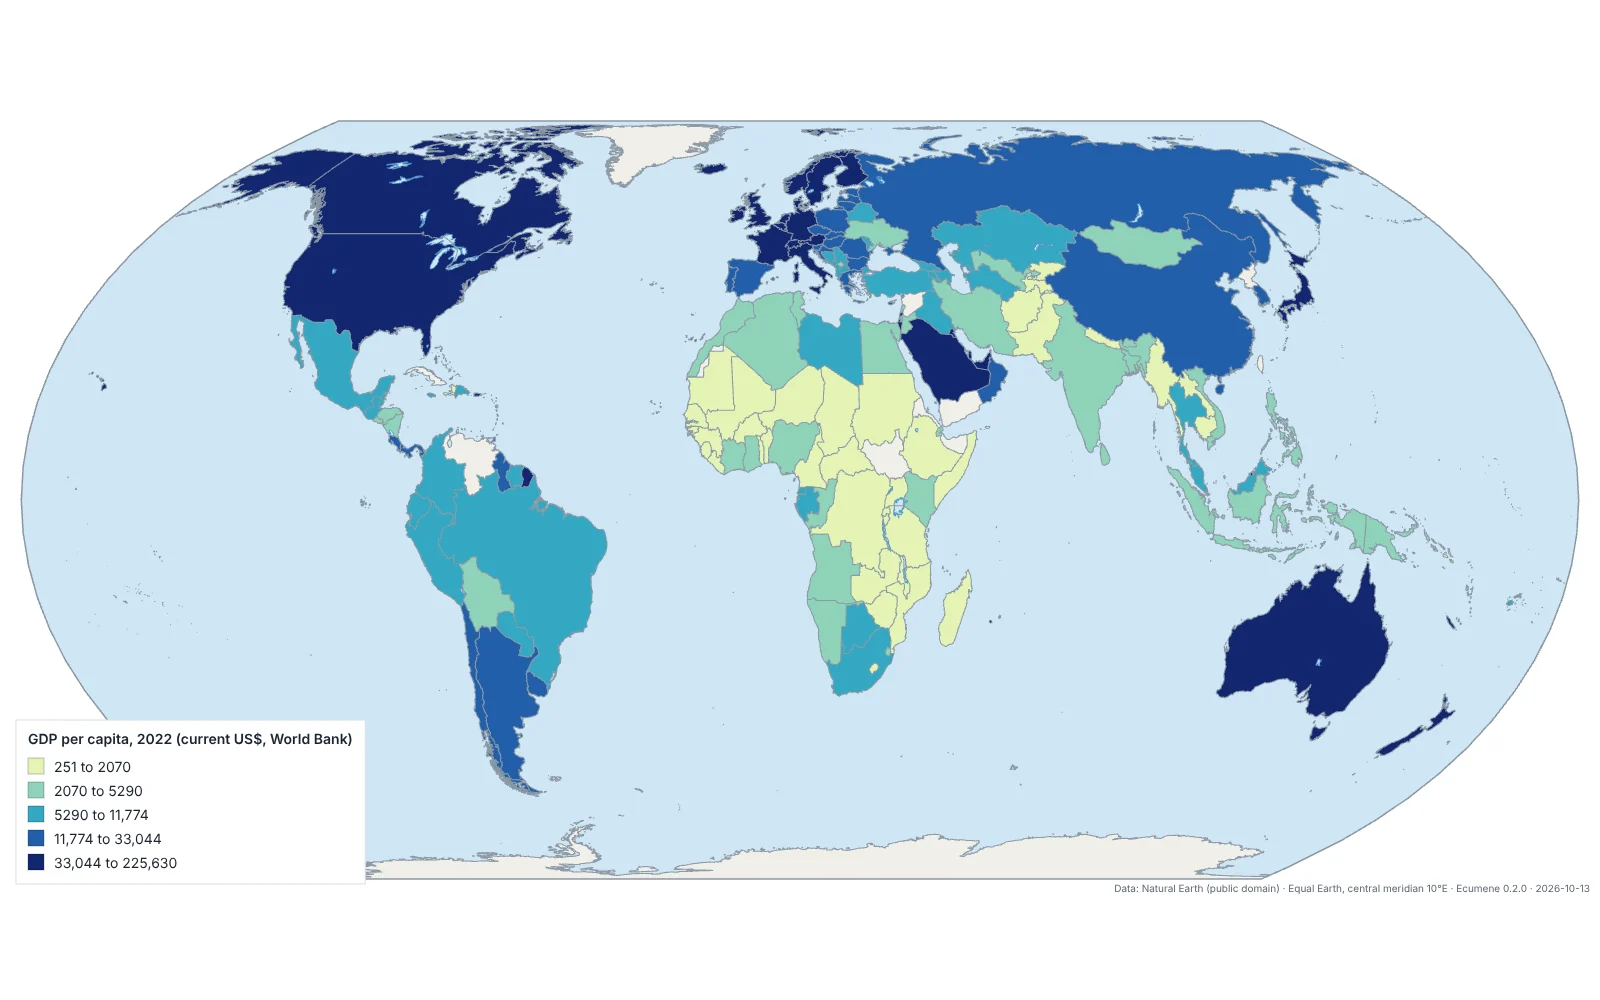
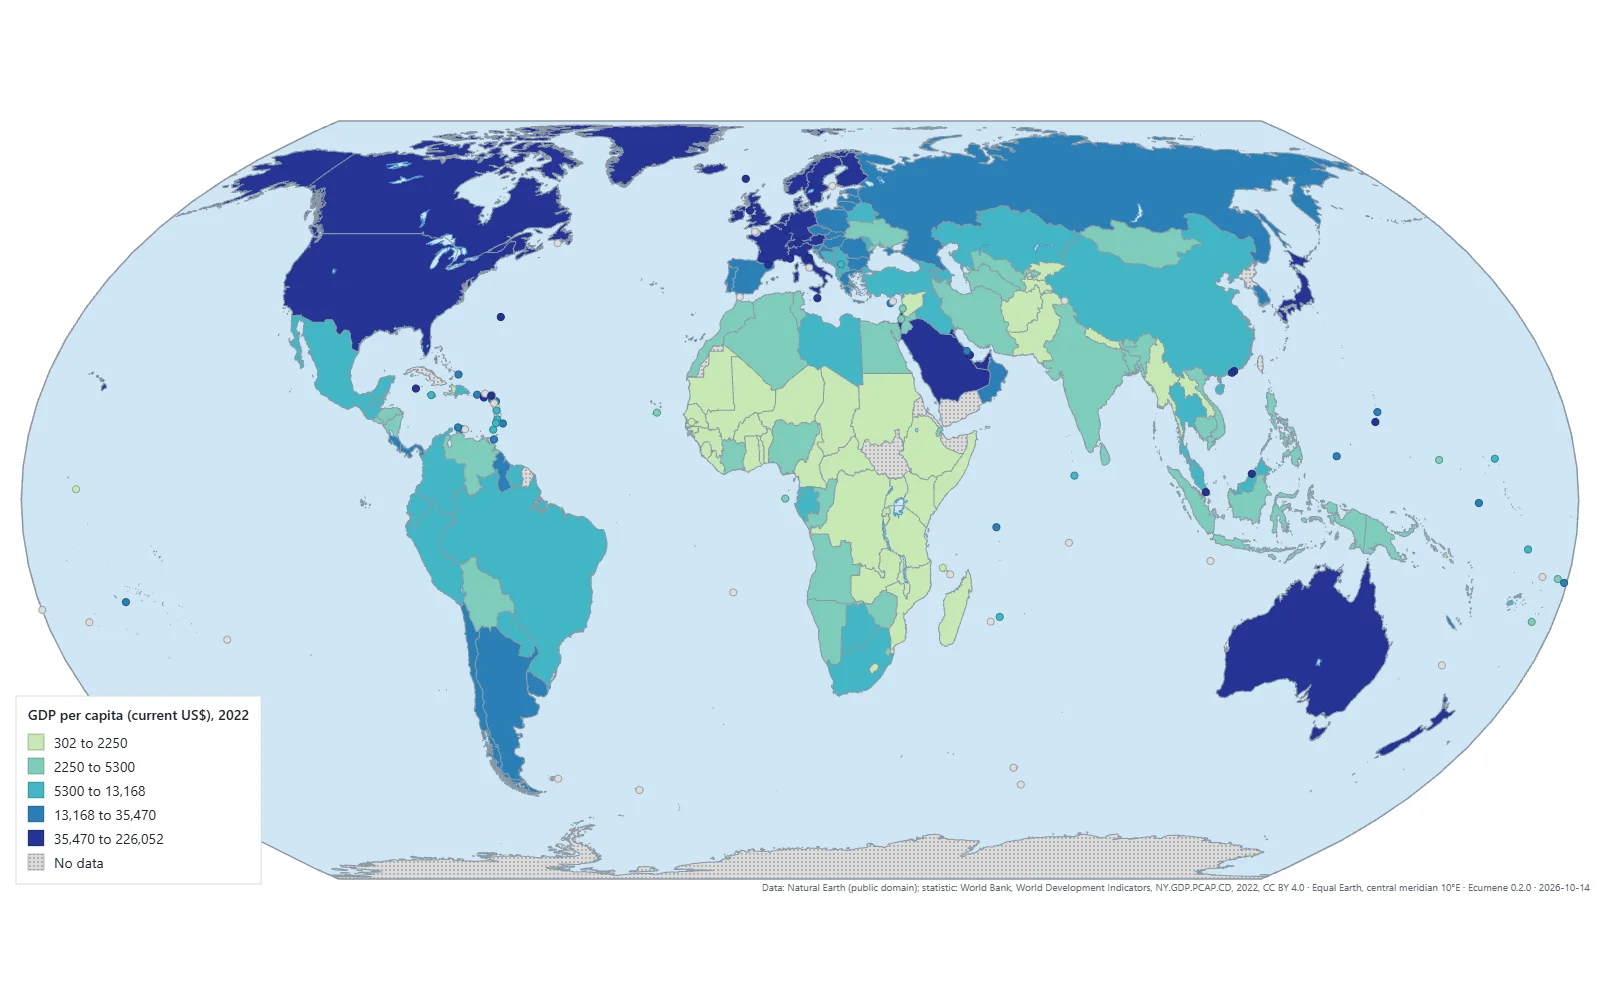
GDP example: fetch the World Bank series live and keep it with its date
The home-page GDP example now comes from the statistic feature: make_examples.js fetches NY.GDP.PCAP.CD for 2022 from the World Bank's API, and the example file saves the values with the fetch date. The hand-kept CSV (which differed from the current World Bank series for 60 of 161 countries checked) is removed. Sources table, home page and README updated; HANDOFF notes the electoral table is not yet checked against the Census table.

diff --git a/src/home/index.html b/src/home/index.html
@@ -118,7 +118,7 @@ footer p{margin:0 0 .6rem;max-width:44rem}
 <p class="intro">Open any of these in the editor and change it into your own map.</p>
 <div class="plates">
 <a href="app/?example=eu"><img src="examples/eu.webp" alt="Orthographic globe centred on Europe with the 27 European Union members in green" width="800" height="500" loading="lazy"><p class="ct">The European Union</p><p class="cd">Orthographic, in the Wikipedia locator style.</p></a>
-<a href="app/?example=gdp"><img src="examples/gdp.webp" alt="World map in Equal Earth projection, countries shaded by GDP per capita in five classes" width="800" height="500" loading="lazy"><p class="ct">GDP per capita, 2022</p><p class="cd">Equal Earth. World Bank data, five classes by quantile.</p></a>
+<a href="app/?example=gdp"><img src="examples/gdp.webp" alt="World map in Equal Earth projection, countries shaded by GDP per capita in five classes" width="800" height="500" loading="lazy"><p class="ct">GDP per capita, 2022</p><p class="cd">Equal Earth. World Bank data fetched on 14 Oct 2026, five classes by quantile; countries without a value are marked.</p></a>
 <a href="app/?example=althist"><img src="examples/althist.webp" alt="Globe of the eastern Mediterranean showing a fictional 1453, with empires drawn as regions and campaigns as arrows" width="800" height="500" loading="lazy"><p class="ct">A restored Byzantium, 1453</p><p class="cd">A fictional scenario, drawn with freehand regions and arrows.</p></a>
 <a href="app/?example=uk"><img src="examples/uk.webp" alt="Lambert conformal conic map of the United Kingdom with England, Scotland, Wales and Northern Ireland outlined" width="800" height="500" loading="lazy"><p class="ct">The countries of the United Kingdom</p><p class="cd">Lambert conformal conic. Exact outlines from Natural Earth subdivisions.</p></a>
 </div>
@@ -140,7 +140,7 @@ footer p{margin:0 0 .6rem;max-width:44rem}
 <tr><td>Countries</td><td>Natural Earth 1:10m, version 4.1</td><td>Public domain</td></tr>
 <tr><td>States and provinces</td><td>Natural Earth 1:10m admin-1</td><td>Public domain</td></tr>
 <tr><td>Lakes and rivers</td><td>Natural Earth 1:10m physical</td><td>Public domain</td></tr>
-<tr><td>Example statistics</td><td>World Bank, via datasets on GitHub</td><td>CC BY 4.0</td></tr>
+<tr><td>Example statistics</td><td>World Bank, World Development Indicators (live, saved in the map)</td><td>CC BY 4.0</td></tr>
 </tbody>
 </table>
 </div>

diff --git a/scripts/make_examples.js b/scripts/make_examples.js
@@ -20,16 +20,19 @@ const EXAMPLES = {
     await view(page, [-14, -50], 1);
     return { mode: 'paint', export: { proj: 'ortho', area: 'world', width: 550 } };
   },
-  // World Bank GDP per capita, 2022, five quantile classes.
+  // World Bank GDP per capita, 2022, five quantile classes. The numbers are fetched from the World Bank's API while
+  // the example is made (this needs the network) and saved in the example with the year and the date fetched, so
+  // the example never changes by itself; run this script again to refresh it. The legend title and credit are the
+  // editor's own.
   async gdp(page) {
-    const rows = fs.readFileSync(R('site/data/gdp-per-capita-2022.csv'), 'utf8').split('\n').filter((l) => l && !l.startsWith('#')).join('\n');
     await mode(page, 'data');
-    await page.fill('#dd', rows);
+    await page.selectOption('#dst', 'wb:NY.GDP.PCAP.CD');
+    await page.waitForFunction(() => document.querySelector('#dyr option[value="2022"]') && !document.getElementById('dyr').disabled, null, { timeout: 60000 });
+    await page.selectOption('#dyr', '2022');
     await page.selectOption('#dpal', 'Yellow-Green-Blue');
     await page.selectOption('#dn', '5');
     await page.selectOption('#dm', 'quantile');
     await page.click('#dgo');
-    await setLegend(page, { t: 'GDP per capita, 2022 (current US$, World Bank)', p: 'bl' });
     await view(page, [-10, 0], 1);
     return { mode: 'data', export: { proj: 'equalearth', area: 'world', width: 1600 } };
   },

diff --git a/HANDOFF.md b/HANDOFF.md
@@ -59,7 +59,7 @@ Conventions: modules share state only through `app`; UI panels re-render on even
 - Lakes in SVG export: every lake lies inside a country polygon in the countries layer (and inside subdivisions). Export cuts the lakes the map shows (always-water, plus major or all by the Lakes setting) out of each country path and painted subdivision (`scripts/lib/cut.js`, cached per setting), so the shapes stop at the shore; borders still come from the original topology. The clipper (`polygon-clipping`) is a separate `app/clip.js`, loaded on the first export. Cutting is planar in lon/lat: pieces get continuous longitudes (rings round a pole are closed through it), everything is snapped to 1e-5° (unsnapped, Brazil fails), long edges get points along their great circle first, and points the clipper drops along straight lon/lat runs (Sudan's 22°N border) are put back. A piece that cannot be cut is kept whole and named in `<desc>`; `tests/unit/cut.test.mjs` cuts every country and subdivision file at every setting so that does not happen. A whole-world map at Lakes = All cuts in about 1.5 s on a desktop. Globe PNGs are unaffected (they come from the GL render, where lakes are drawn over the land).
 - Subdivisions: Natural Earth 10m admin-1, one TopoJSON per country in `admin1/`, fetched on demand. Each unit has `id` (its position in Natural Earth's list for that country, which exact outlines save) and `c` (`adm1_code`, unique, which painted units save). Units of the overseas parts move out of France and the Netherlands into their own entries (the Caribbean Netherlands gets Bonaire, Saba and Sint Eustatius; the French regions are single units and paint whole); the parent's other units keep their ids, so ids can have gaps. Where no unit covers part of a country (the north of Åland's main island, Argentina's side of the Southern Patagonian Ice Field, small areas of India, China, Palestine, Croatia, the US, the Philippines, Bhutan and Antarctica), the build adds one more unit, "Rest of <country>" with code `<file>+0` (for example `ALD+0`): the country minus its units with `polygon-clipping` (also used by SVG export, see above), dropping slivers under 10 km² or under 1 km wide. Countries across 180° get continuous longitudes first, and a piece the clipper cannot handle is redone in 1° tiles, quartered down to 1/8° (only one 1/8° tile of Chilean fjord is skipped). The Baikonur and Guantánamo Bay units belong to Kazakhstan and Cuba, listed after their own units so ids do not move.
 - Exact outlines (`t:'shape'`) are saved by reference (`{k:'c',names}` or `{k:'a1',c,ids}`), never by coordinates, and rebuilt with `topojson.merge`.
-- Statistics (#13): the Data panel's Statistic menu. World Bank indicators (World Development Indicators, CC BY 4.0, 12 listed in `scripts/sources/stat-worldbank.json`, each with its own code, title and who collected it; all are CC BY 4.0 in the World Bank's series metadata) are fetched live from `api.worldbank.org` in the browser when one is chosen, one request for the last 15 years. This is the only request the editor makes to another site, and only on that choice; the panel says so. Nothing is bundled and the build needs no update. The map saves what it used, `st: {k:'wb', c: code, y: year or 'latest', t: date fetched, v: {ISO3: value}, ys?: {ISO3: year}}` (values rounded to 7 significant digits), so reopening or sharing a map code never changes its numbers and never touches the network; "Fetch again" is the only refresh. Year menu: the default is the latest year where at least 90% of the best year's countries have a value; "Most recent for each country" uses each country's latest value and the legend title and credit say "most recent available, 2021–2024". Matching uses ISO alpha-3 codes: `src/iso.js` (generated by `scripts/build_iso.js` from Natural Earth's admin-0 table and committed) maps each code to the map country's id, which is its ISO numeric code, plus the overseas parts split from France and the Netherlands; Kosovo (World Bank code XKX) is matched by name; Ashmore and Cartier Is. shares Australia's numeric id and takes no code. A country without a value is painted `NO_DATA_PAINT` (grey with fine dots) with a "No data" legend entry unless "Mark countries with no data" is off (saved as `ds.nd`). The World Bank's figure for France includes its overseas departments, so French Guiana and the others show no data while France's value still counts them; Taiwan, Western Sahara and some others have no World Bank data. A statistic colors the whole map: what was painted before goes (one undo step; undo restores the statistic and legend title). Pasting rows, or Clear all colors, drops the statistic and its credit. Exports credit it ("World Bank, World Development Indicators, NY.GDP.PCAP.CD, 2023, CC BY 4.0", plus the date fetched and the collecting organisation in the SVG `<desc>`). US electoral votes are bundled in `stats.js` (House seats from the 2020 Census apportionment plus two senators, DC 3; valid for the 2024, 2028 and 2032 elections) and paint Natural Earth's US units; Maine and Nebraska's district votes are not shown. Democracy indices are left out for licence reasons (V-Dem is CC BY-SA, the EIU Democracy Index and Freedom House are not openly licensed). The browser tests answer the World Bank from a fixture so CI needs no network; the live API was checked by hand on 14 Oct 2026.
+- Statistics (#13): the Data panel's Statistic menu. World Bank indicators (World Development Indicators, CC BY 4.0, 12 listed in `scripts/sources/stat-worldbank.json`, each with its own code, title and who collected it; all are CC BY 4.0 in the World Bank's series metadata) are fetched live from `api.worldbank.org` in the browser when one is chosen, one request for the last 15 years. This is the only request the editor makes to another site, and only on that choice; the panel says so. Nothing is bundled and the build needs no update. The map saves what it used, `st: {k:'wb', c: code, y: year or 'latest', t: date fetched, v: {ISO3: value}, ys?: {ISO3: year}}` (values rounded to 7 significant digits), so reopening or sharing a map code never changes its numbers and never touches the network; "Fetch again" is the only refresh. Year menu: the default is the latest year where at least 90% of the best year's countries have a value; "Most recent for each country" uses each country's latest value and the legend title and credit say "most recent available, 2021–2024". Matching uses ISO alpha-3 codes: `src/iso.js` (generated by `scripts/build_iso.js` from Natural Earth's admin-0 table and committed) maps each code to the map country's id, which is its ISO numeric code, plus the overseas parts split from France and the Netherlands; Kosovo (World Bank code XKX) is matched by name; Ashmore and Cartier Is. shares Australia's numeric id and takes no code. A country without a value is painted `NO_DATA_PAINT` (grey with fine dots) with a "No data" legend entry unless "Mark countries with no data" is off (saved as `ds.nd`). The World Bank's figure for France includes its overseas departments, so French Guiana and the others show no data while France's value still counts them; Taiwan, Western Sahara and some others have no World Bank data. A statistic colors the whole map: what was painted before goes (one undo step; undo restores the statistic and legend title). Pasting rows, or Clear all colors, drops the statistic and its credit. Exports credit it ("World Bank, World Development Indicators, NY.GDP.PCAP.CD, 2023, CC BY 4.0", plus the date fetched and the collecting organisation in the SVG `<desc>`). US electoral votes are bundled in `stats.js` (House seats from the 2020 Census apportionment plus two senators, DC 3; valid for the 2024, 2028 and 2032 elections) and paint Natural Earth's US units; Maine and Nebraska's district votes are not shown. Democracy indices are left out for licence reasons (V-Dem is CC BY-SA, the EIU Democracy Index and Freedom House are not openly licensed). The browser tests answer the World Bank from a fixture so CI needs no network; the live API was checked by hand on 14 Oct 2026. The home page's GDP example is made with this feature: `scripts/make_examples.js gdp` fetches the 2022 series live, and the example file keeps the values with the fetch date (14 Oct 2026); it replaced a hand-kept CSV that no longer matched the World Bank's current series. The electoral-vote seat table was typed from memory and is checked only by its totals (435 seats, 538 votes) and five states; verify it against the Census table before relying on it.
 
 - Other subdivision layers (#37): each comes from an entry in `scripts/sources/` (publisher, edition, licence, exact credit, download URL and SHA-256, which fields hold code, name and groupings). `scripts/fetch_sources.js` downloads the raw file from the mirror release `data-sources` (checksum-named assets, never replaced; `--origin` fetches from the publisher, records the new checksum and stages the file in `data/src/mirror/` for `gh release upload data-sources`). `scripts/build_layers.js` fits every unit to the Natural Earth country outline (units wholly inside are kept as published; others are cut back to the coast, dropping pieces under 0.5 km²), orients polygons for d3 by area (ArcGIS winds the other way), and writes `data/layers/<id>/<file>.json` plus `data/layers/index.json` (per country: id, menu name, unit word, edition, file, count, groupings, credit). The editor reads the index at start; a country with several layers shows "Layer for <country>" in the paint panel and in the outline picker. Codes of a layer's units carry its id (`gb-wpc-2024:E14001063`), so saved maps (`u`) need no new field and Natural Earth codes are unchanged; exact outlines save the layer as `ref.y`. A country is painted with one layer at a time: its layer is that of its paint, else the one chosen; switching clears the other layer's paint after asking, as one undo step. Exports credit each layer used (title, edition, URL, credit in `<desc>`; the short credit on the source note). The README sources table is generated from `scripts/sources` (`node scripts/fetch_sources.js --readme`) and a test checks it. A source can have several `parts` (the UK county layers join Great Britain from OS Boundary-Line and Northern Ireland from OSNI); a part's download can `extract` one Shapefile layer from a zip archive (OS ships Boundary-Line as one 737 MB archive: `--origin` keeps it in `data/src/cache/`, converts the layer with mapshaper and stores gzipped GeoJSON, so the mirror holds 18 MB). Fields can merge pieces by name (`dissolve`: OS splits Carnarvonshire into 8, Tailte Éireann a constituency into dozens), tidy names (`case: "title"` for names in capitals, `strip` a regex such as " Council$" or a seat count), use `"@slug"` codes for name-only data, and take groupings from a field, from the code's first letter, or from the Natural Earth admin-1 unit under the unit's centre (`"from": "ne-admin1"`). `simplify` passes mapshaper options (150 m for full-detail sources). The build stops if a unit loses its shape, and where one unit lies inside another in the source (Tailte Éireann's generalised Cork County covers Cork City) it cuts the smaller out of the larger and says so; any other overlap stops it. Layers (#10): UK Westminster constituencies 2024 (650), counties and unitary authorities December 2025 (218, ONS), ceremonial counties (97: England, Wales's preserved counties, Scotland's lieutenancy areas, Northern Ireland's six counties since its county boroughs are not in the open data), historic counties (94, 1888/1889 plus Northern Ireland's six); Ireland counties (26), local authority areas (31) and Dáil constituencies 2023 (43), all Tailte Éireann. Each file is 114-374 KB and covers 98.8-99.4% of its country on the map. Postcode areas are left out: no current open boundaries exist (see #10). A part can also `filter` features (`{field, in}` or `{field, notIn}`: the Census county file has the territories, which are their own countries on the map) and `lookup` field values (state FIPS codes to names), and a name can be a template of fields (`"{STATEFP} {CD119FP}"`) with `replace` rules ("Alaska 00" becomes "Alaska (at-large)"). US layers (#11, U.S. Census Bureau 2024 cartographic boundaries 1:5M, public domain): counties and equivalents of the 50 states and DC (3,144, grouped by state, 1,974 KB, so its source sets `maxKB` 2000), congressional districts of the 119th Congress (436 with DC's delegate), and Puerto Rico's 78 municipios (Natural Earth has none). Layer files are quantised to about 1e-4° whatever their extent (a fixed 1e5 steps across the US, nearly 360° wide because of the Aleutians, moved Alaska's fjord coasts off the land). In headless tests the US counties take 5-7 s to show because SwiftShader renders each frame slowly; on a real GPU they are ready in about 220 ms with 5 ms frames.
 

diff --git a/README.md b/README.md
@@ -48,7 +48,7 @@ The browser tests are slow on a software GPU (around 15 minutes); on a machine w
 - `src/js/`: the app as ES modules, bundled by esbuild (see `HANDOFF.md` for the module map)
 - `src/groups.js`: country groups, name aliases and data parsing (shared with the build scripts and tests)
 - `scripts/`: data builds (`build_tris.js`, `build_phys.js`, `build_admin1.js`, `build_layers.js`, helpers `lib/tri.js` and `lib/cut.js`, which the editor also uses), downloads (`fetch_data.js` for Natural Earth, `fetch_sources.js` for the layers listed in `scripts/sources/`), and `build.js`. See "Adding a data layer" in `HANDOFF.md`.
-- `src/home/`: the home page (template and the hero globe script); `site/examples/`: example maps (state JSON and thumbnails, made by `scripts/make_examples.js`); `site/data/`: data used by examples
+- `src/home/`: the home page (template and the hero globe script); `site/examples/`: example maps (state JSON and thumbnails, made by `scripts/make_examples.js`)
 - `tests/unit/`, `tests/e2e/`: tests; `tests/server.js` is a minimal static server
 
 ## Data and licences
@@ -72,7 +72,7 @@ The browser tests are slow on a software GPU (around 15 minutes); on a machine w
 | Electoral votes per US state (Data panel), 2024, 2028 and 2032 elections | [U.S. Census Bureau, 2020 Census apportionment of the U.S. House of Representatives](https://www.census.gov/data/tables/2020/dec/2020-apportionment-data.html) | [Public domain (U.S. government work)](https://www.usa.gov/government-copyright) |
 | Robinson and Winkel tripel projections | `d3-geo-projection` | ISC |
 | Home-page typeface: Source Serif 4 | Adobe, via `@fontsource-variable/source-serif-4` (self-hosted) | SIL OFL 1.1 |
-| GDP per capita example | World Bank (NY.GDP.MKTP.CD ÷ SP.POP.TOTL, 2022) via github.com/datasets | CC BY 4.0 |
+| GDP per capita example | World Bank, World Development Indicators (NY.GDP.PCAP.CD, 2022), fetched from the World Bank's API and saved in the example with the date | CC BY 4.0 |
 <!-- sources:end -->
 
 Layers other than Natural Earth are fitted to the Natural Earth coastline, so paint stays on the map's land; each export credits every layer it uses, in the source note and in the SVG's description.
